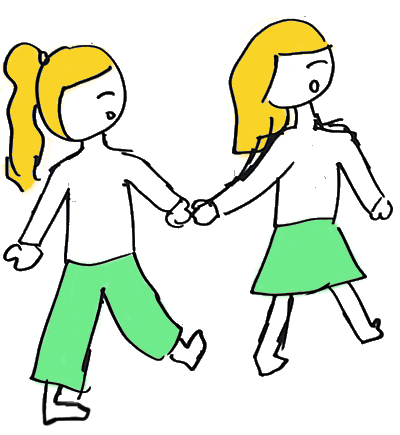
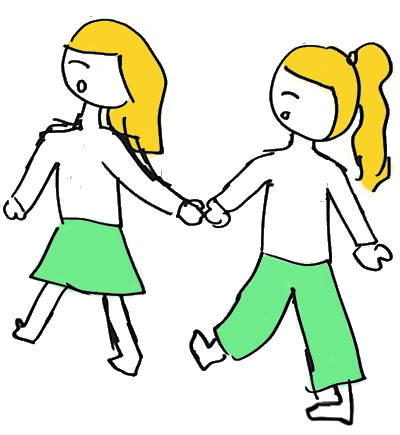
mobile testing cont

diff --git a/css/styles.css b/css/styles.css
@@ -391,11 +391,22 @@ section {
 /*==== OVERVIEW ===*/
 
 .overview-section {
-    background-image: url(https://rcopestake65.github.io/right_to_remain_dev/images/walking-man-4.png), url(https://rcopestake65.github.io/right_to_remain_dev/images/walking-women.png);
+    /*background-image: url(https://rcopestake65.github.io/right_to_remain_dev/images/walking-man-4.png), url(https://rcopestake65.github.io/right_to_remain_dev/images/walking-women.png);
     background-repeat: no-repeat;
-    background-position: 10% center, 90% 45%;
+    background-position: 10% center, 90% 45%;*/
+    position: relative;
 }
-
+.illustration-1, .illustration-2{
+    position: absolute;
+}
+.illustration-1{
+    top: 25%;
+    left: 10%;
+}
+.illustration-2{
+    top: 25%;
+    right: 10%;
+}
 .container.overview {
     position: relative;
     display: flex;
@@ -613,17 +624,34 @@ section {
     content: "...";
 }
 
-.card-grid-item-3 {
-    grid-row: 2 / 2;
-    grid-column: 1 / 1;
-}
+/*positioning grid items for large screens*/
 
+@media (min-width: 500px) {
+    .card-grid-item-3 {
+        grid-row: 2 / 2;
+        grid-column: 1 / 1;
+    }
+    .card-full-3 {
+        grid-column: 1 / -1;
+        grid-row: 2 / 3;
+    }
+}
+/*positioning grid items for small screens*/
+
+@media (max-width: 500px) {
+    .card-grid-item-3{
+        grid-column: 1 / -1;
+        grid-row: 3 / 3;
+    }
+    .card-full-3 {
+        grid-column: 1 / -1;
+        grid-row: 3 / 3;
+    }
+}
 .card-full {
     background-color: var(--card-back);
     border: 20px solid #FFFFF0;
     border-radius: 10px;
-    grid-column: 1 / -1;
-    grid-row: 2 / 3;
     width: 100%;
     display: none;
     -webkit-box-shadow: 2px 2px 13px -6px rgba(0, 0, 0, 0.75);
@@ -641,7 +669,9 @@ section {
     font-size: 1.1rem;
     width: 80%;
 }
-
+.card-full p:last-of-type {
+margin-bottom: 2rem;
+}
 .card-full-close-btn {
     color: #fff;
     position: absolute;
@@ -660,27 +690,27 @@ section {
     cursor: pointer;
 }
 
-
 /*small screen adjustments*/
-@media (max-width: 500px){
+
+@media (max-width: 500px) {
     .problem-container {
         grid-template-columns: 1fr;
     }
     .card-container {
         width: 290px;
         height: 475px;
+        padding: 0;
     }
     .card-front, .card-back {
         width: 290px;
         height: 475px
     }
-    .container {
-        padding: 0 30px 30px 30px;
+    .card-full {
+        top: 0;
         position: relative;
-        max-width: 1000px;
-        margin: 0;
     }
 }
+
 /*=== STAR CARDS ===*/
 
 .container.star-cards {

diff --git a/star-cards.html b/star-cards.html
@@ -23,19 +23,19 @@
 
     <nav class="main-nav">
         <div class="menu-open-btn">
-            <i class="fas fa-chevron-right chev-right"></i>
-            <i class="fas fa-chevron-down chev-down"></i>
+            <i class="fas fa-arrow-circle-right arrow-right fa-lg"></i>
+            <i class="fas fa-arrow-circle-down arrow-down fa-lg"></i>
         </div>
-       
+
         <div class="nav-item-container">
-            <a class="stage-btn home-btn mb2" href="index.html"><img src="images/home-icon.png"></a>
-        
+            <a class="stage-btn home-btn" href="index.html"><img src="images/home-icon.png"></a>
+
 
             <div class="map-item-container">
                 <a href="claim-asylum.html">
                     <div class="map-item map-item-1">Claim Asylum</div>
                 </a>
-                <a href="welfare-interview.html">
+                <a href="#">
                     <div class="map-item map-item-2">Welfare Interview</div>
                 </a>
                 <a href="#">
@@ -63,15 +63,15 @@
 
             <div class="star-card">
                 <a href="star-cards.html">
-                    <img src="images/star-card-sm-01.png">
-                    <h5>Star Cards</h5>
+                    <img src="https://rcopestake65.github.io/right_to_remain_dev/images/star-card-sm-01.png">
+                    <p>Star Cards</p>
                 </a>
             </div>
         </div>
 
-</nav>
+    </nav>
 
-<!-- end main menu / hamburger -->
+    <!-- end main menu / hamburger -->
 
     <!-- ========== STAR CARDS ==================-->
  

diff --git a/claim-asylum.html b/claim-asylum.html
@@ -153,7 +153,7 @@
                         </p>
                     </div>
                 </div>
-                <div class="card-full">
+                <div class="card-full card-full-3">
                     <div class="card-heading"><h4>Action</h4></div>
                     <p>If you don’t claim asylum immediately on entering the UK, you will need to telephone to make an appointment to claim asylum at the Screening Unit in Croydon. You can do so by searching “Asylum Screening Unit Croydon” online and calling the number. You may have to try many times before you get through. </p>
 <p>  You can ask your solicitor to explain to the Home Office why you didn’t claim asylum straight away.</p>

diff --git a/overview.html b/overview.html
@@ -20,6 +20,8 @@
 <body>
   
         <section class="overview-section">
+            <div class="illustration-1"><img src="https://rcopestake65.github.io/right_to_remain_dev/images/walking-man-4.png" alt=""></div>
+            <div class="illustration-2"><img src="https://rcopestake65.github.io/right_to_remain_dev/images/walking-women.png" alt=""></div>
             <div class="container overview">
                 <div class="next-btn-container">
                     <a href="index.html"><span class="more-btn"><i class="fas fa-arrow-circle-up"></i></span></a>

diff --git a/js/gsap.js b/js/gsap.js
@@ -101,7 +101,12 @@ function starOver() {
 function starOut() {
   gsap.to(this, .2, {  scaleX: '1', scaleY: '1' });
 }
+//illustrations
+gsap.set(".illustration-1", { opacity: 0, x: -150 });
+gsap.to(".illustration-1", { duration: 2, x: 0, y: 0, opacity: 1, delay: .3 });
 
+gsap.set(".illustration-2", { opacity: 0, x: 150 });
+gsap.to(".illustration-2", { duration: 2, x: 50, y: 0, opacity: 1, delay: .3 });
 // ========== PROBLEMS & ACTIONS  ======================
 
 //problem 1
